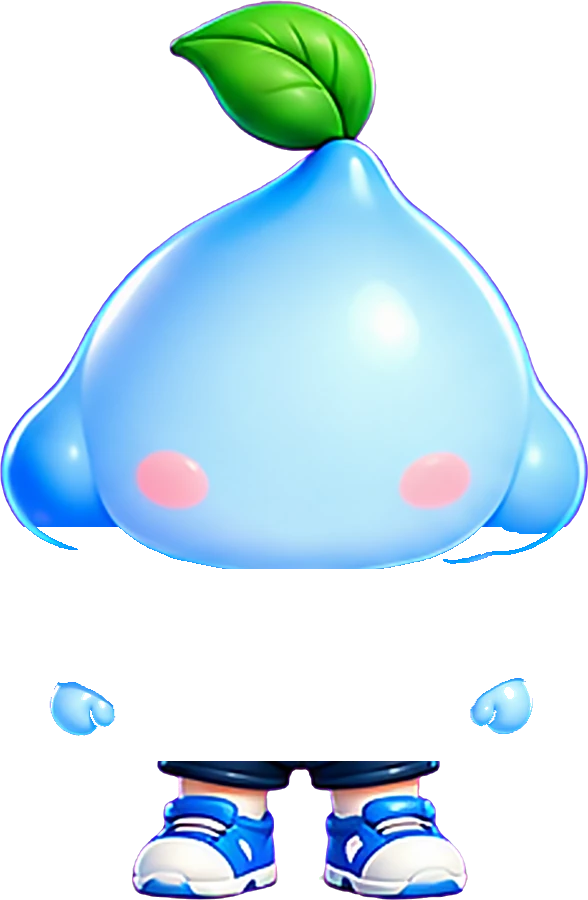
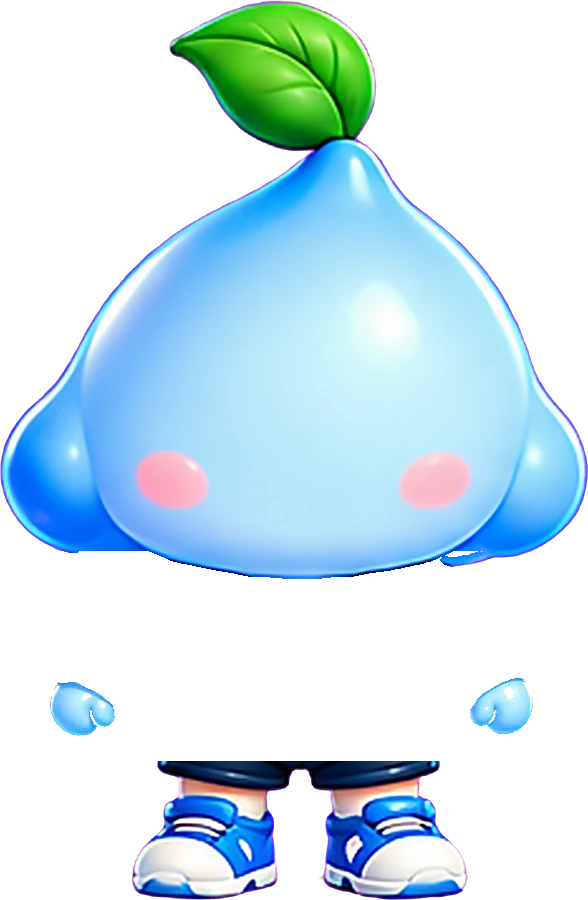
Fipilot Pet – hết viền mờ dưới đầu khi mặc áo (thân để mặc áo giữ nguyên viền cằm, bỏ mảnh áo gốc), bỏ ép đầu khi đội mũ (gây viền đôi); 2 tay: đồ cầm tay cầm được tay trái hoặc phải (hands), tay trái dùng ảnh lật ngang, điểm tay trái hand_left
Kiểm: npm test đạt; chụp bản chạy thử cầm 2 món 2 tay.

Claude-Session: https://claude.ai/code/session_0163KSZYdzHDud2uG42gs7mp

Changed region(s): [[0.3061, 0.6222, 0.7041, 0.6533], [0.0612, 0.56, 0.2755, 0.6222], [0.7347, 0.56, 0.949, 0.6533]]

diff --git a/scripts/pet/gen_catalog.py b/scripts/pet/gen_catalog.py
@@ -79,6 +79,8 @@ BODY_HAND = {'nam': (0.852, 0.7828, 588, 900), 'nu': (0.8515, 0.7828, 559, 900)}
 COVER = {f'doi-dau-{i:02d}' for i in (1, 2, 3, 4, 5, 6, 8, 9)}  # mũ trùm kín đỉnh đầu → ẩn lá + chỏm đầu dưới mũ
 for it in items:
     if it['id'] in COVER: it['cover'] = True
+    if it['slot'] == 'cam_tay':
+        it['hands'] = ['phai', 'trai']   # luật 20/10: mọi đồ cầm tay cầm được ở tay trái hoặc tay phải, cả nam lẫn nữ; tay trái dùng ảnh lật ngang
     if it['id'] in HOLD:
         hd = HOLD[it['id']]; it['file_hold'] = hd['file']; it['anchor'] = {}
         for v in it['variants']:
@@ -96,13 +98,13 @@ catalog = {
   'bodies': {
     'nam': {'file': 'than/than-nam.webp', 'file_ao': 'than/than-nam-mac-ao.webp', 'w': 588, 'h': 900,
             'eyes': A(0.5, 0.345, 0.36), 'mouth': A(0.5, 0.445, 0.12),
-            'hand': {'file': 'than/tay-phai-nam.webp', **A(0.852, 0.7828, 0.1259)}, 'hat_cut': 0.27,
+            'hand': {'file': 'than/tay-phai-nam.webp', **A(0.852, 0.7828, 0.1259)}, 'hand_left': [0.1395, 0.788], 'hat_cut': 0.27,
             'file_nl': 'than/than-nam-khong-la.webp', 'file_ao_nl': 'than/than-nam-mac-ao-khong-la.webp',
             'leaf': {'file': 'than/la-nam.webp', **A(0.4643, 0.0828, 0.3503), 'px': 0.80, 'py': 0.97}},
     'nu': {'file': 'than/than-nu.webp', 'file_ao': 'than/than-nu-mac-ao.webp', 'w': 559, 'h': 900,
            'eyes': A(0.5, 0.40, 0.40), 'mouth': A(0.5, 0.50, 0.13),
            'bow': {'file': 'than/no-nu.webp', **A(0.55, 0.20, 0.55)},
-           'hand': {'file': 'than/tay-phai-nu.webp', **A(0.8515, 0.7828, 0.1252)}, 'hat_cut': 0.30,
+           'hand': {'file': 'than/tay-phai-nu.webp', **A(0.8515, 0.7828, 0.1252)}, 'hand_left': [0.1395, 0.788], 'hat_cut': 0.30,
            'file_nl': 'than/than-nu-khong-la.webp', 'file_ao_nl': 'than/than-nu-mac-ao-khong-la.webp',
            'leaf': {'file': 'than/la-nu.webp', **A(0.4365, 0.0822, 0.4043), 'px': 0.76, 'py': 0.97}},
   },
